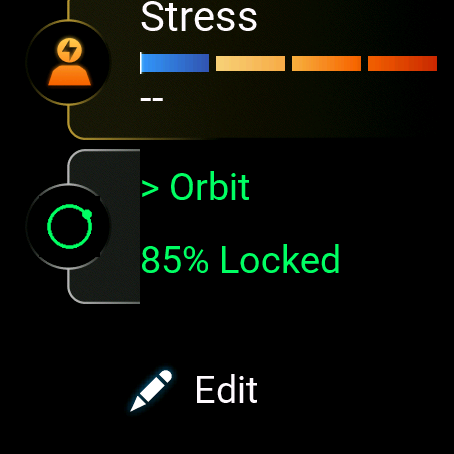
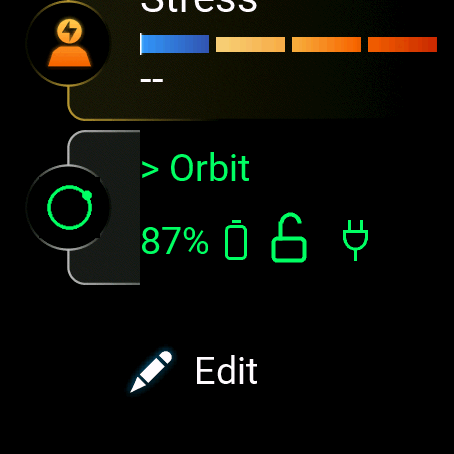
Docs: new glance and main screen screenshots (#27)

diff --git a/README.md b/README.md
@@ -63,10 +63,10 @@ slower, and don't read the difference between those two runs as meaningful.
 ## Screenshots
 
 <p>
-  <img src="docs/images/watch-glance.png" alt="Glance: 85% charge with battery, locked and plug icons" width="200">
+  <img src="docs/images/watch-glance.png" alt="Glance: 87% charge with battery, open padlock and plug icons" width="200">
   <img src="docs/images/watch-main.png" width="200"
-       alt="Main screen: a ring and 85% charge, 85 and 87 degree cabin and outside temperatures, locked and plugged in
-       icons, and the data age of 2 minutes">
+       alt="Main screen: a ring and 87% charge, 81 and 80 degree cabin and outside temperatures, open padlock and plugged
+       in icons, and the data age of now">
   <img src="docs/images/watch-actions.png" alt="Actions: lock, climate, refresh and a small info button" width="200">
   <img src="docs/images/watch-info.png" alt="Info: when the car last reported and when the phone last updated"
        width="200">
